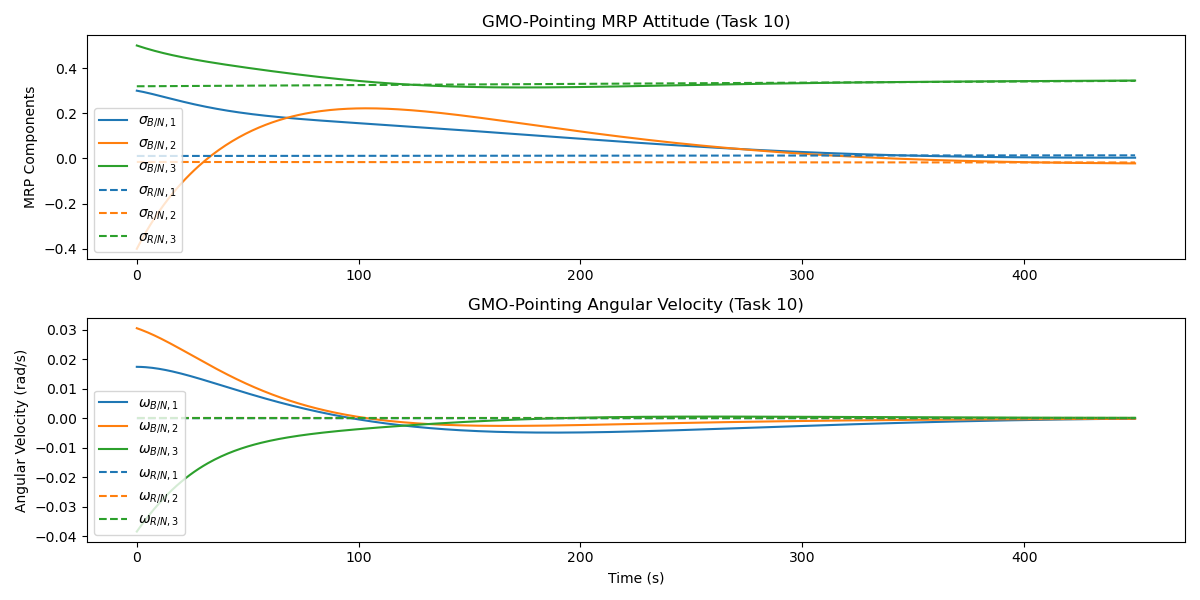
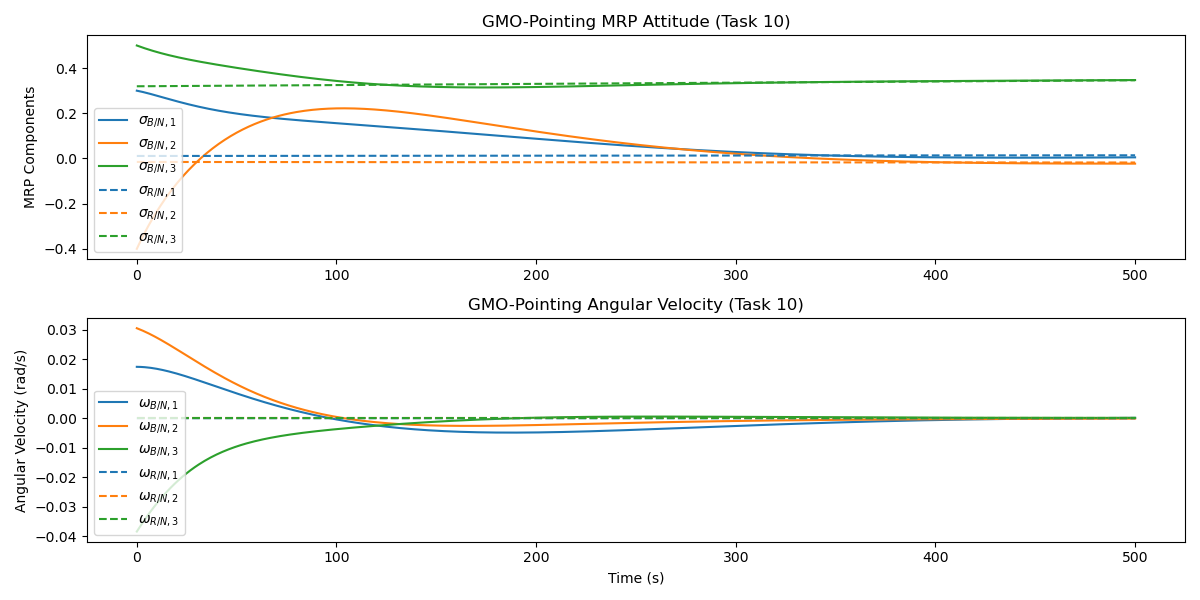
norm

diff --git a/values.py b/values.py
@@ -688,7 +688,7 @@ writeToFile(f"./tasks/task 8/gains.txt", np.array([P,K]))
 
 # Define time settings
 dt = 1.0  # 1-second step
-t_final = 450  # seconds
+t_final = 500  # seconds
 time_points = np.arange(0, t_final + dt, dt)
 
 # Storage arrays
